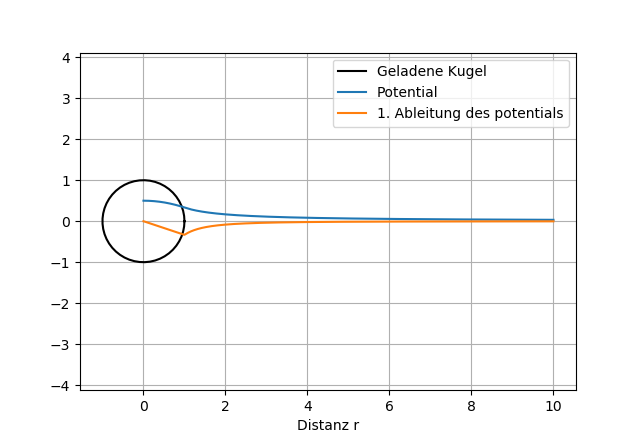
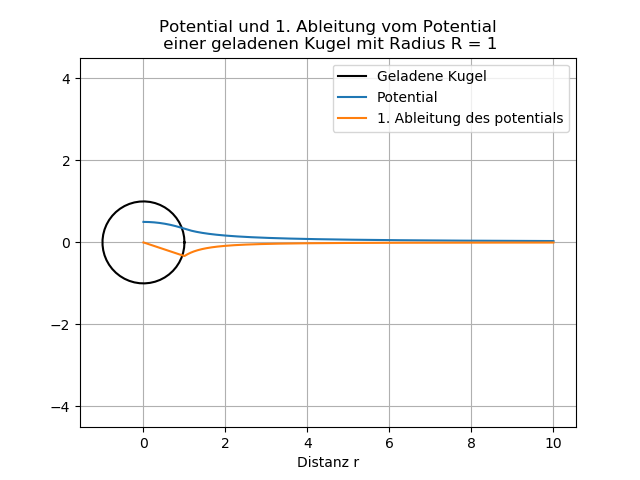
gamma korriegiert

diff --git a/blatt15/aufgabe2.py b/blatt15/aufgabe2.py
@@ -12,7 +12,7 @@ def potential(r,R):
     rho = 1 # Ladungsdichte
 
     beta = rho * R**3 / (3 * eps)
-    gamma = 1 / 2 * rho * R**3 / eps
+    gamma = R**2 * rho  / (2 * eps)
     
     if r <= R:
         return (-1 * rho * r**2 / (6 * eps) + gamma)
@@ -47,6 +47,7 @@ plt.plot(r,der) # plot 1. ableitung
 plt.xlabel('Distanz r')
 
 plt.legend(['Geladene Kugel', 'Potential', '1. Ableitung des potentials'])
+plt.title('Potential und 1. Ableitung vom Potential\n einer geladenen Kugel mit Radius R = ' + str(R))
 plt.axis('equal')
 plt.grid(True)
 plt.ylim(-2,2)
